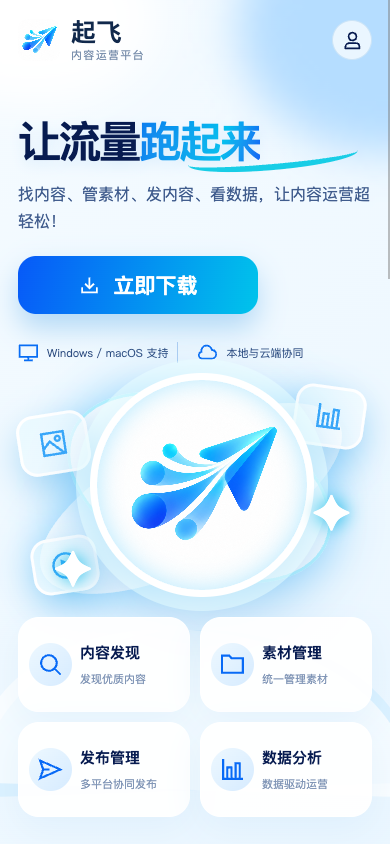
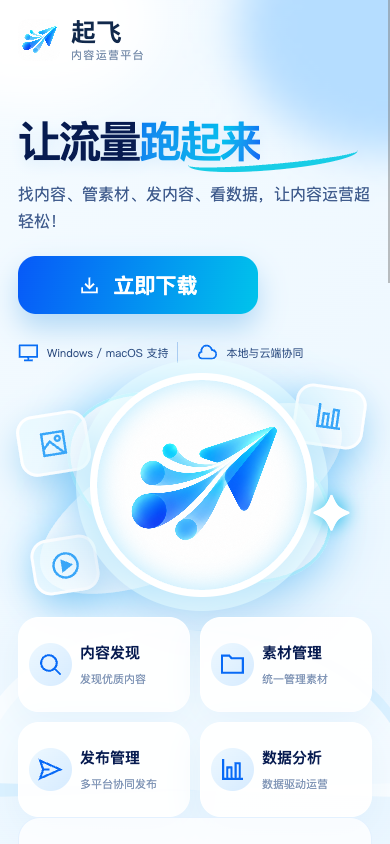
Record floating home navigation verification

Changed region(s): [[0.1231, 0.6469, 0.2462, 0.7085], [0.8308, 0.0, 0.9538, 0.0924]]

diff --git a/delivery/active/CHG-20261010-078/change.md b/delivery/active/CHG-20261010-078/change.md
@@ -6,11 +6,11 @@
 - References: `docs/superpowers/specs/2026-10-10-public-home-and-desktop-downloads-design.md`；`docs/superpowers/plans/2026-10-10-public-home-and-desktop-downloads.md`。
 - Affected repositories: `wt-media-cloud`、`wt-media-workspace`。
 - Current repository: `wt-media-workspace`
-- 用户可见结果：公开 `/home` 提供官网、登录入口及三种桌面安装包链接；登录页与品牌图一致，升级时可更新下载清单。
+- 用户可见结果：公开 `/home` 提供官网及三种桌面安装包链接，不展示登录入口或登录引导；独立登录页与品牌图一致，升级时可更新下载清单。
 
 ## 范围与边界
 
-1. Cloud Web 增加公开官网路由与响应式页面，认证守卫只放行 `/home` 和 `/login`；Desktop 路由不增加官网。
+1. Cloud Web 增加公开官网路由与响应式页面，认证守卫只放行 `/home` 和 `/login`；官网不展示登录入口或登录引导，桌面顶部导航悬浮并可点击或滚动到四个独立区域，Desktop 路由不增加官网。
 2. Cloud 与 Desktop 共用登录页按参考图改版，不改变登录、角色检查、会话替换和版本显示逻辑。
 3. Workspace 脚本从显式 Tag 的 GitHub Release 读取资产 URL，拒绝非公开正式版及缺失、重复、异源资产；更新目标 JSON 文件时保留旧内容直至校验完成。
 4. Cloud Web 从同源清单展示 Windows x64、macOS Intel、macOS Apple 芯片下载链接；首次清单对应公开 `v0.1.0`。
@@ -34,6 +34,8 @@
 | 项 | 验收方法 | 状态 |
 | --- | --- | --- |
 | `/home` 公开且业务页仍需登录 | 路由与守卫测试、浏览器访问 | AUTOMATED PASS；部署环境待验收 |
+| 官网不出现登录入口或登录引导 | 首页宽窄屏浏览器及页面 DOM 检查 | 本地 PASS；部署环境待验收 |
+| 官网悬浮导航可点击、上下滚动及指示当前区域 | 桌面浏览器锚点、上下滚动与活动态检查 | 本地浏览器 PASS；实际鼠标滚轮及部署环境待验收 |
 | 三平台下载链接与正式版资产一致 | 脚本测试、GitHub Release 回读、页面测试 | AUTOMATED PASS；终端下载待验收 |
 | 错误 Release 不覆盖旧清单 | 脚本失败场景测试 | PASS |
 | 共享登录流程与视觉可用 | Cloud/Desktop 构建、登录测试、人工宽窄屏走查 | 本地 PASS；真实账号登录待验收 |

diff --git a/delivery/active/CHG-20261010-078/checkpoint.md b/delivery/active/CHG-20261010-078/checkpoint.md
@@ -1,7 +1,7 @@
 # CHG-20261010-078 Checkpoint
 
 - 已完成：Task 1 脚本与初始清单；Task 2 Cloud `/home` 与三平台按钮；Task 3 共享登录页及品牌视觉，宽屏与 390 px 无头浏览器截图已留证。
-- 当前工作：首页和登录页圆形徽章内图形留白已校准；手机首页顶部改为图标登录入口，页脚移除「登录平台」文字。状态仍为 VERIFYING；等待新 Cloud Web 部署后的 `/home`、真实账号登录与目标用户网络三平台下载验收。
+- 当前工作：首页登录引导与手机头像入口已全部移除，左下播放图标不再被装饰星遮挡；登录按钮和首页下载卡箭头已移除。桌面顶部导航改为悬浮胶囊，四个入口可分别定位，页面可上下滚动且活动项随之更新。状态仍为 VERIFYING；等待新 Cloud Web 部署后的 `/home`、真实账号登录与目标用户网络三平台下载验收。
 - 下一步：部署后执行固定 Tag 清单更新命令，回读在线 JSON，逐个平台点击下载；收到结果后关闭 CHG。
 - 阻塞：无代码阻塞。在线部署和终端网络验收依赖目标环境人工执行。
-- 最近验证：本轮 Cloud 与 Desktop Web 构建通过；更新 1440×900 登录页、390×844 和 320×844 首页以及 390 px 全页截图。390/320 px 文档宽度分别等于视口宽度；手机页脚登录文字计算样式为 `display:none`，顶部登录链接只有图标且保留无障碍名称。先前 Web 全量 490 项、Go 静态测试、下载脚本 4 项和 GitHub 清单核对仍有效；本机对 GitHub 资产直连 HEAD 曾超时，尚不代表用户网络不可下载。
+- 最近验证：本轮 Cloud Web 与 Desktop Web 构建通过；1672×941 桌面浏览器四个导航点击分别停在滚动位置 574、700、901、1102 px，悬浮栏始终距视口顶部 16 px，目标区域顶部均为 128 px。程序驱动的向上、向下滚动均更新活动项；无头浏览器无法确认真实鼠标滚轮输入，留待部署验收。1672、390、320 px 首页截图和登录页截图已更新，390/320 px 无水平溢出。先前 Web 全量 490 项、Go 静态测试、下载脚本 4 项和 GitHub 清单核对仍有效；本机对 GitHub 资产直连 HEAD 曾超时，尚不代表用户网络不可下载。

diff --git a/delivery/milestones/M-first-production-release.md b/delivery/milestones/M-first-production-release.md
@@ -7,9 +7,9 @@
 
 - 用户目标：未登录访客可在 `/home` 了解起飞并获取与当前公开正式版一致的 Windows x64、macOS Intel、macOS Apple 芯片安装包；登录页与官网使用统一品牌视觉。
 - 前置：Cloud Web 已有静态服务和登录页；GitHub 产品正式版 Release 已公开且三平台资产齐全。
-- 用户操作：访问 `/home`、选择平台并点击下载；已有账号从官网进入登录页。升级时运维人员在新 Cloud Web 部署后，用固定产品 Tag 执行下载清单更新脚本。
+- 用户操作：访问 `/home`、通过悬浮导航浏览产品功能、定价、帮助中心和联系管理员区域，选择平台并点击下载；官网不展示登录入口或登录引导，现有 `/login` 页面继续独立提供认证。升级时运维人员在新 Cloud Web 部署后，用固定产品 Tag 执行下载清单更新脚本。
 - 系统动作：Cloud 公开官网而业务路由继续受认证保护；登录页保持现有会话语义；脚本核验 GitHub Release 是已公开正式版及三种实际安装包 URL，再原子更新指定清单文件。
-- 成功事实：三个按钮分别指向同一个正式版的真实平台资产；清单更新失败保留旧版可用内容；宽窄屏可用；Cloud 与 Desktop 登录可用。
+- 成功事实：三个按钮分别指向同一个正式版的真实平台资产；清单更新失败保留旧版可用内容；官网顶部导航在桌面滚动中保持可见，点击和上下滚动均可到达对应区域并指示当前位置；官网宽窄屏均不出现登录入口或登录引导；Cloud 与 Desktop 的独立登录页可用。
 - 失败行为：不把 Draft、RC、缺失资产或外部 URL 写入清单；不将未登录访客引入业务页；不将 GitHub API 回读冒充用户网络实际下载或安装成功。
 - 实施记录：[CHG-20261010-078](../active/CHG-20261010-078/change.md)。
 

diff --git a/delivery/active/CHG-20261010-078/status/cloud.md b/delivery/active/CHG-20261010-078/status/cloud.md
@@ -1,6 +1,6 @@
 # Cloud 状态
 
 - 分支：`codex/public-home-downloads`。
-- 已提交：`aedd398` 公开官网和下载清单；`a2c8f72` 共享登录视觉；`dcb3983` 按用户官网参考图校准视觉；`7c725c3` 首页文案与手机布局修正；`0ec44a4` 圆形徽章留白与手机登录文字校准。
-- 验证：本轮首页和登录页圆形徽章的背景图从 150% 缩至 110%，图标与圆圈留白；手机首页顶部登录入口只保留图标和无障碍名称，页脚登录文字隐藏。Cloud 与 Desktop Web 构建通过，1440 px 登录和 390/320 px 首页截图已更新，390/320 px 无水平滚动。先前 Web 52 个文件、490 项测试与 Go Cloud 静态服务聚焦测试通过。
+- 已提交：`aedd398` 公开官网和下载清单；`a2c8f72` 共享登录视觉；`dcb3983` 按用户官网参考图校准视觉；`7c725c3` 首页文案与手机布局修正；`0ec44a4` 圆形徽章留白与手机登录文字校准；`26d85b1` 移除首页登录引导与遮挡图标的装饰星；`f935879` 悬浮导航、分区滚动和按钮箭头修正。
+- 验证：本轮移除首页全部登录文案与链接及遮挡左下播放图标的装饰星；登录提交按钮和首页下载卡不再显示箭头。桌面导航为悬浮胶囊，四个导航目标分布在独立纵向区域；1672×941 浏览器中点击四个入口均准确定位，滚动上下切换活动项。Cloud Web 与 Desktop Web 构建通过，1672/390/320 px 首页及登录页截图已更新；三种视口首页无登录字样或 `/login` 链接，仍有三张下载卡，390/320 px 无水平滚动。真实滚轮输入需部署环境验收；先前 Web 52 个文件、490 项测试与 Go Cloud 静态服务聚焦测试通过。
 - 待验收：新版本部署后 `/home`、真实账号登录、三平台安装包在目标用户网络的实际下载。

diff --git a/delivery/active/CHG-20261010-078/evidence/floating-nav-and-arrow-cleanup.md b/delivery/active/CHG-20261010-078/evidence/floating-nav-and-arrow-cleanup.md
@@ -1,0 +1,10 @@
+# 官网悬浮导航及按钮箭头修正
+
+- 用户反馈：登录按钮与下载卡移除箭头；官网顶部四项导航呈悬浮状态，点击后分别对准对应区域，页面可上下滚动。
+- Cloud 改动：登录按钮移除尾部箭头；三平台下载卡移除右侧箭头；首页容器使用 `overflow: clip` 使悬浮导航可粘附视口；四个导航目标沿页面纵向排列，添加锚点顶部留白、活动态和滚动监听。
+- Cloud 提交：`f935879`。
+- 构建：`npm run build:cloud`、`npm run build:desktop` 均退出码 0；两处 Vue 文件 `git diff --check` 退出码 0。
+- Chrome DevTools 1672×941：产品功能、定价、帮助中心、联系管理员依次点击后页面滚动位置为 574、700、901、1102 px，四处目标顶部均为 128 px，悬浮导航顶端均为 16 px；活动项分别对应点击项。
+- 程序驱动滚动：向下滚动时活动项依次为产品功能、定价、帮助中心、联系管理员；从 1250 px 逐步向上到页面顶部时依次为联系管理员、帮助中心、定价、产品功能、无活动项，导航保持顶端 16 px。
+- 截图：`screenshots/wt-home-wide.png`、`screenshots/wt-home-nav-pricing.png`、`screenshots/wt-home-mobile-cdp.png`、`screenshots/wt-home-mobile-320.png`、`screenshots/wt-home-mobile-full.png`、`screenshots/wt-login-wide.png`。
+- 边界：无头浏览器的合成滚轮事件未移动页面，不能据此判断真实鼠标滚轮；实际滚轮操作与线上页面仍待部署验收。

diff --git a/delivery/active/CHG-20261010-078/evidence/remove-home-login-and-spark-overlap.md b/delivery/active/CHG-20261010-078/evidence/remove-home-login-and-spark-overlap.md
@@ -1,0 +1,10 @@
+# 官网登录引导与图标遮挡修正
+
+- 用户反馈：首页不应出现登录引导；手机首页右上角不应有人物头像；左下五角星遮挡播放图标。
+- 当前执行基线已同步到 `delivery/milestones/M-first-production-release.md#公开官网与桌面安装包下载` 和本 CHG：官网只提供内容介绍与下载，独立 `/login` 页面继续提供认证。
+- 代码改动：移除首页手机头像链接、联系管理员卡片与页脚的登录链接、帮助说明中的登录账号描述；移除左下装饰星及相应样式。
+- Cloud 提交：`26d85b1`。
+- 命令：`npm run build:cloud` 退出码 0；`git diff --check` 退出码 0。
+- 浏览器验证：Chrome DevTools 在 1672×941、390×844、320×844 首页视口中，`/login` 链接数与可见「登录」字数均为 0，三平台下载卡数均为 3，左下装饰星元素数为 0。390/320 px 文档宽度等于视口宽度；390 px 截图中播放图标完整可见。直接访问 `/login` 仍显示登录页。
+- 截图：`screenshots/wt-home-wide.png`、`screenshots/wt-home-mobile-cdp.png`、`screenshots/wt-home-mobile-320.png`、`screenshots/wt-home-mobile-full.png`。
+- 边界：这是本地页面和构建验证；线上部署、真实登录和目标用户网络下载仍待验收。
